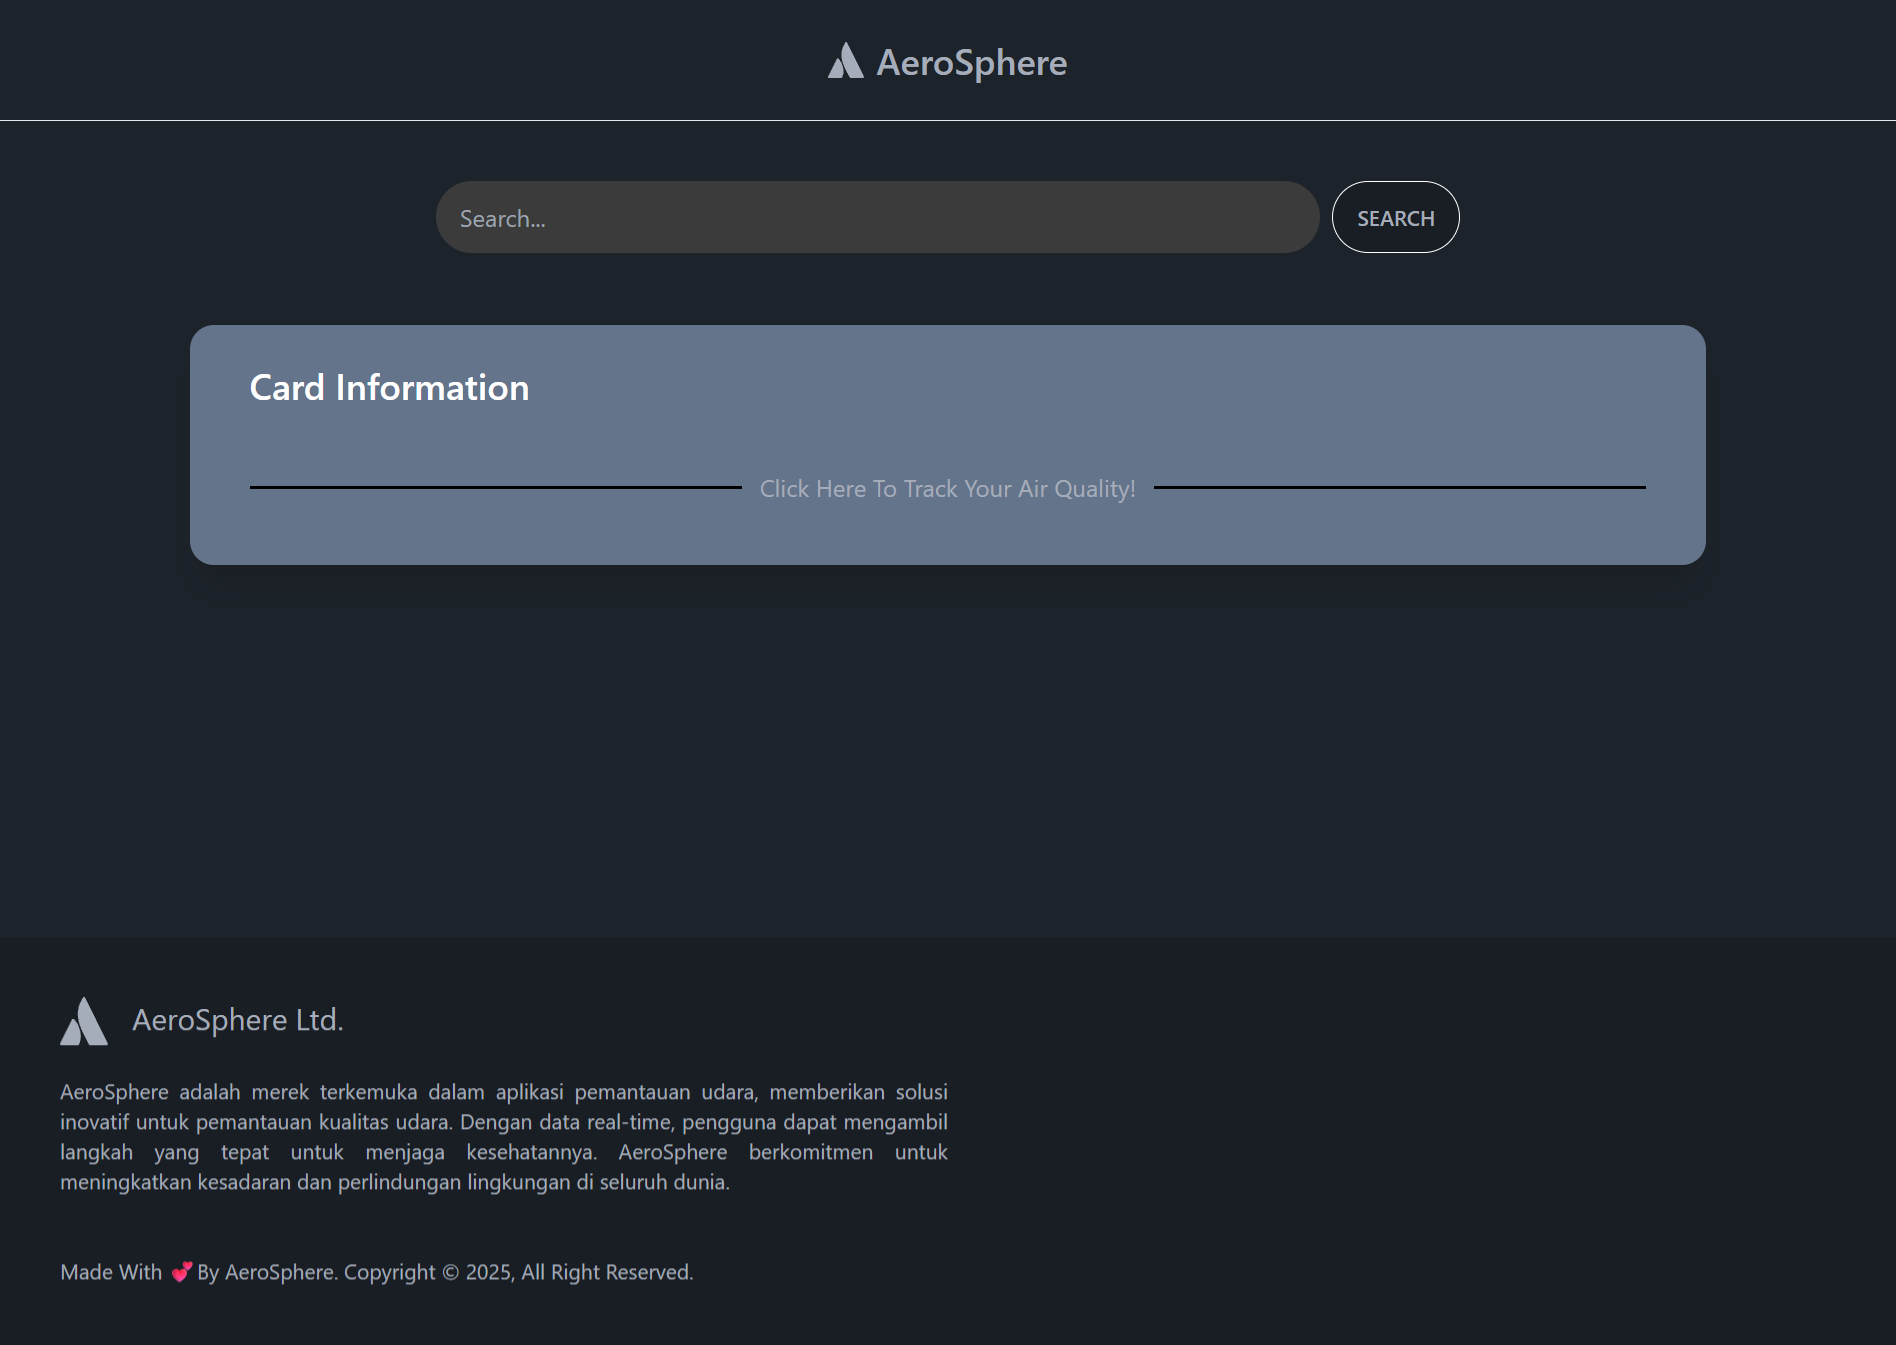
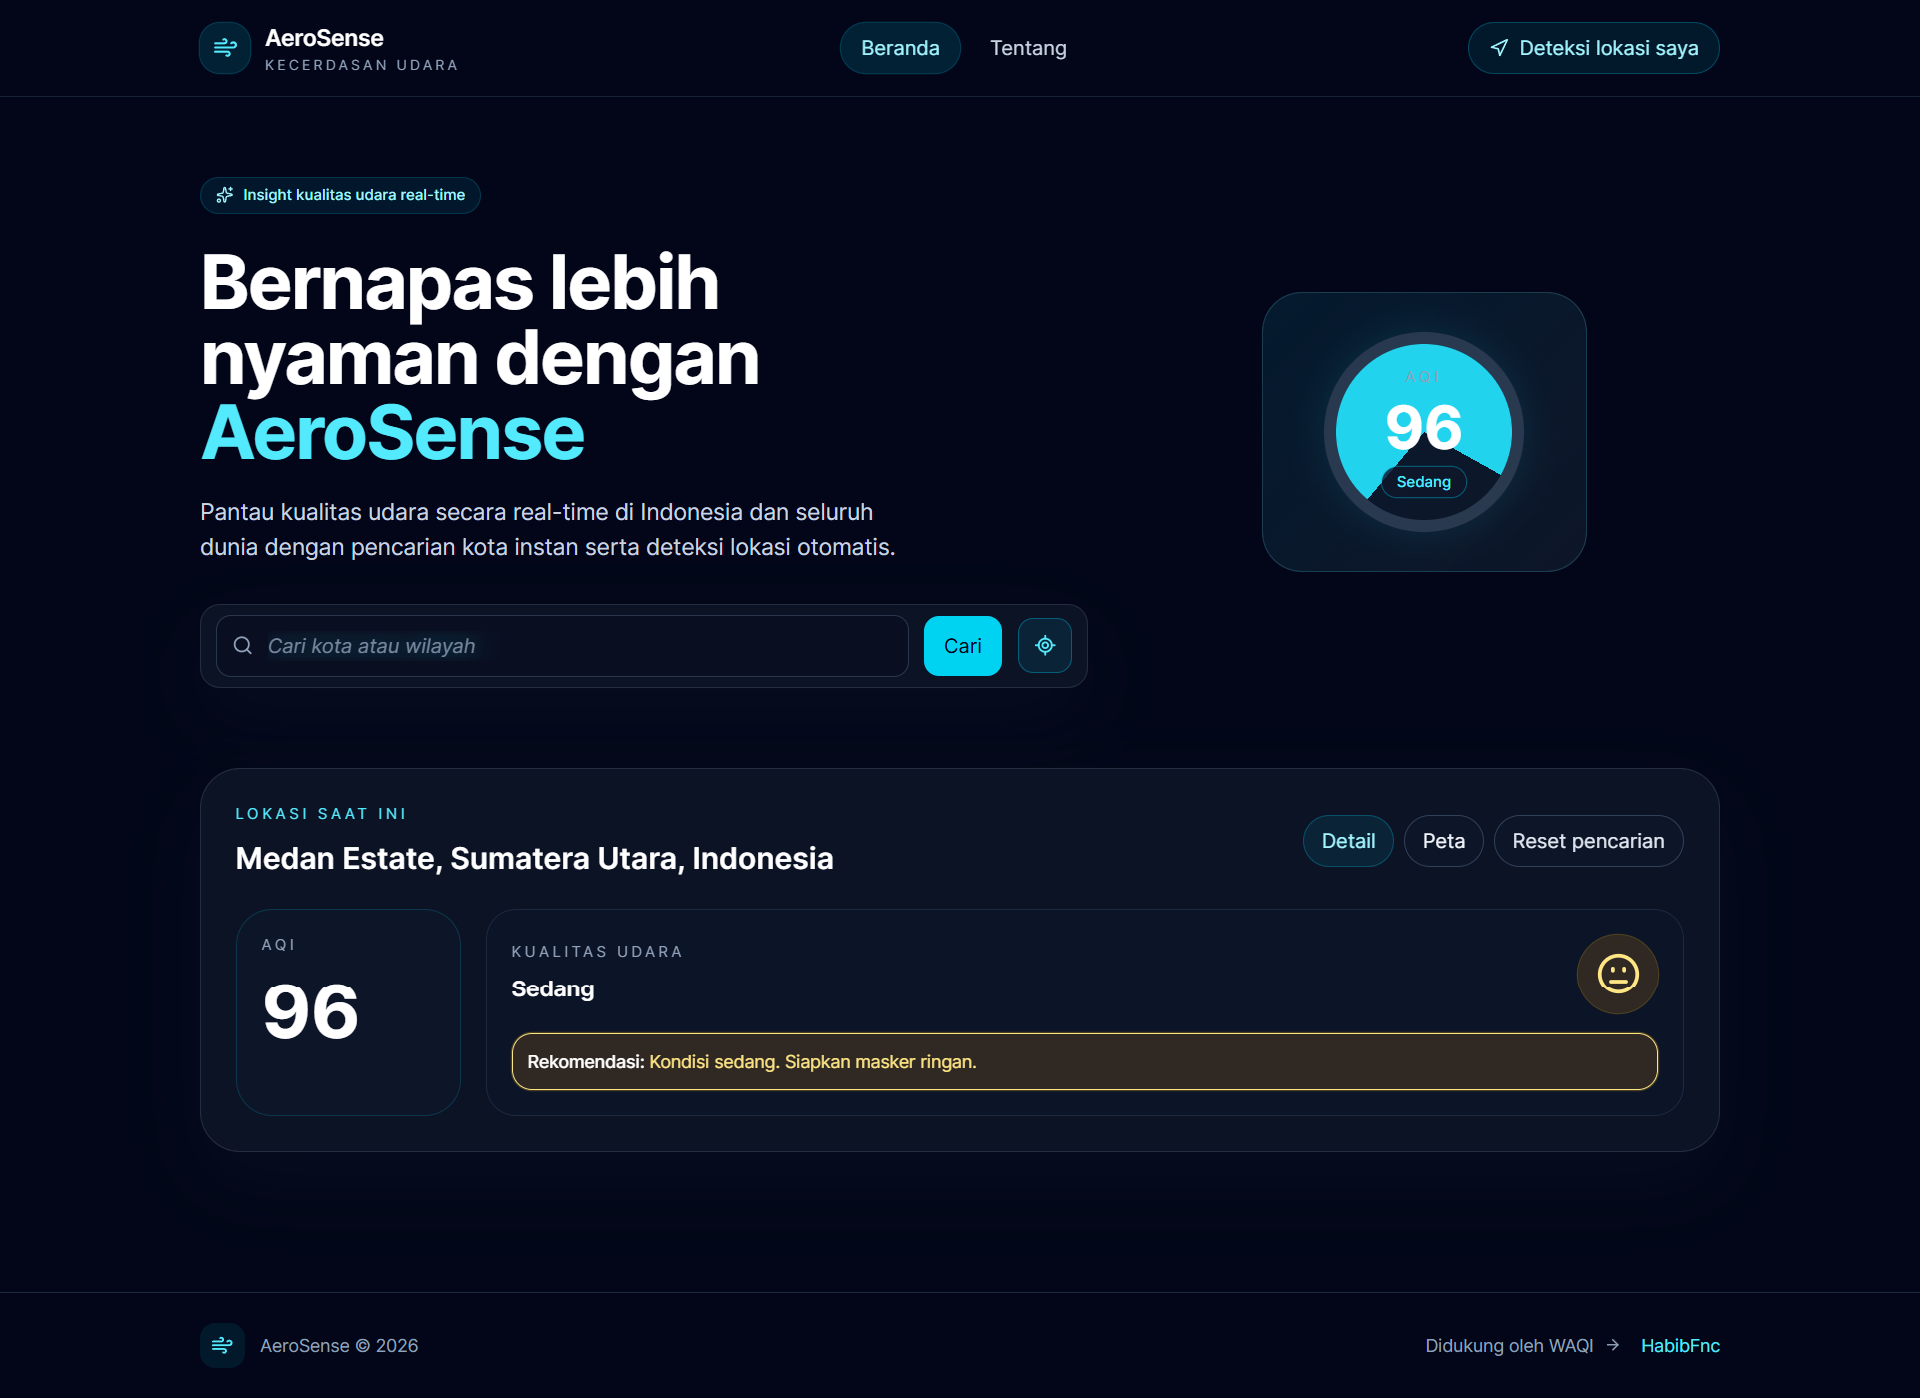
Update Projects Item

diff --git a/src/components/Project.jsx b/src/components/Project.jsx
@@ -16,14 +16,22 @@ const Projects = () => {
 
       <div className="grid grid-cols-1 gap-6 p-4 sm:grid-cols-2 sm:p-8 xl:grid-cols-3 xl:px-20">
         <ProjectItem
-          title="Rahmat Nauli Flora"
+          title="Rahmat Nauli Flora (2026)"
           backgroundImg={rahmatnauliflora}
           projectUrl="https://rahmatnauli.com"
           desc={"Profesional Company Profile Rahmat Nauli Flora"}
           tech="ReactJS and TailwindCSS"
         />
+
         <ProjectItem
-          title="Pesona Sumut Trans"
+          title="AeroSense (2026)"
+          backgroundImg={Aerosphere}
+          projectUrl="https://aerosenses.vercel.app"
+          desc={"Your Local Weather Monitor!"}
+          tech="ReactJS, TailwindCSS, and WAQI API"
+        />
+        <ProjectItem
+          title="Pesona Sumut Trans (2025)"
           backgroundImg={pesonasumuttrans}
           projectUrl="https://pesonasumuttrans.com"
           desc={"Profesional Company Profile PT. Pesona Sumut Trans"}
@@ -31,18 +39,11 @@ const Projects = () => {
         />
 
         <ProjectItem
-          title="Bja Coatings"
+          title="Bja Coatings (2025)"
           backgroundImg={bjaCoatings}
           projectUrl="https://epoxylantaimedan.com"
           desc={" Professional Company Profile CV. BJA Coatings"}
           tech="ReactJS and TailwindCSS"
-        />
-        <ProjectItem
-          title="AeroSphere"
-          backgroundImg={Aerosphere}
-          projectUrl="https://aerosphere.netlify.app"
-          desc={"Your Local Weather Monitor!"}
-          tech="ReactJS, TailwindCSS, and Weather API"
         />
       </div>
     </div>
